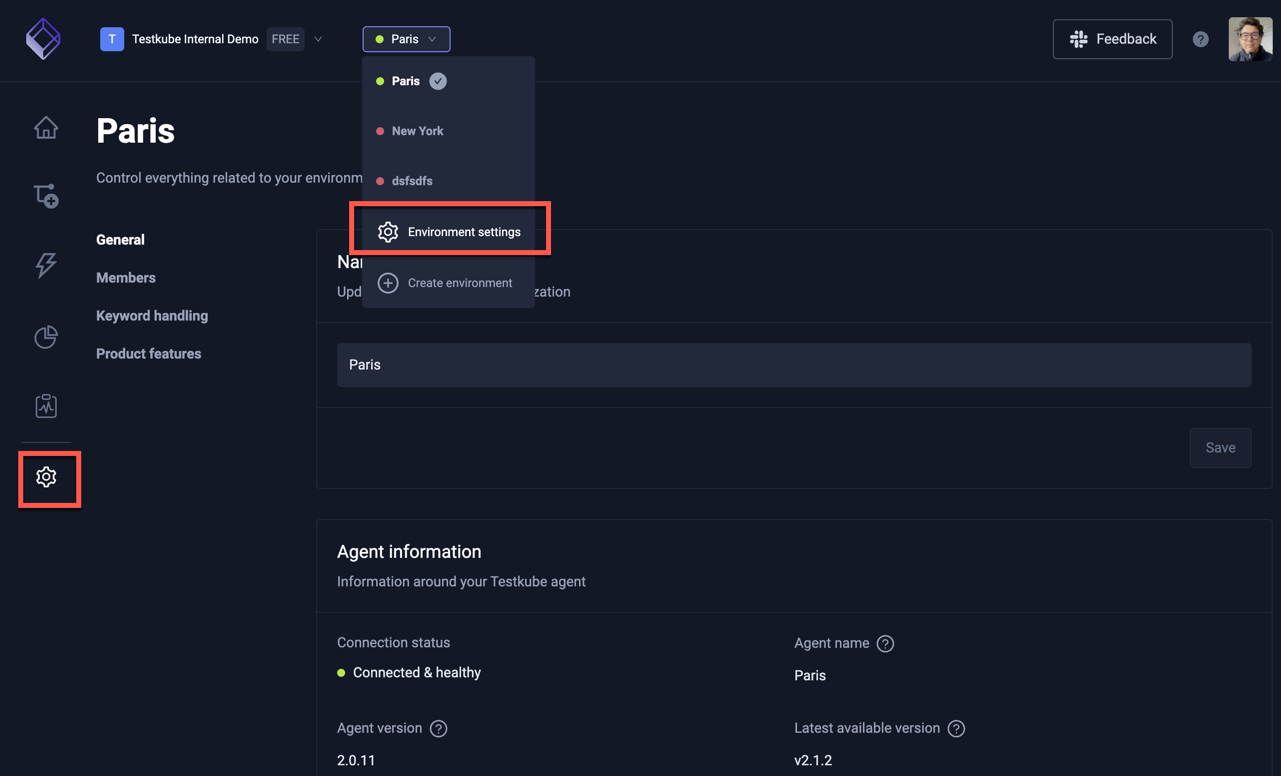
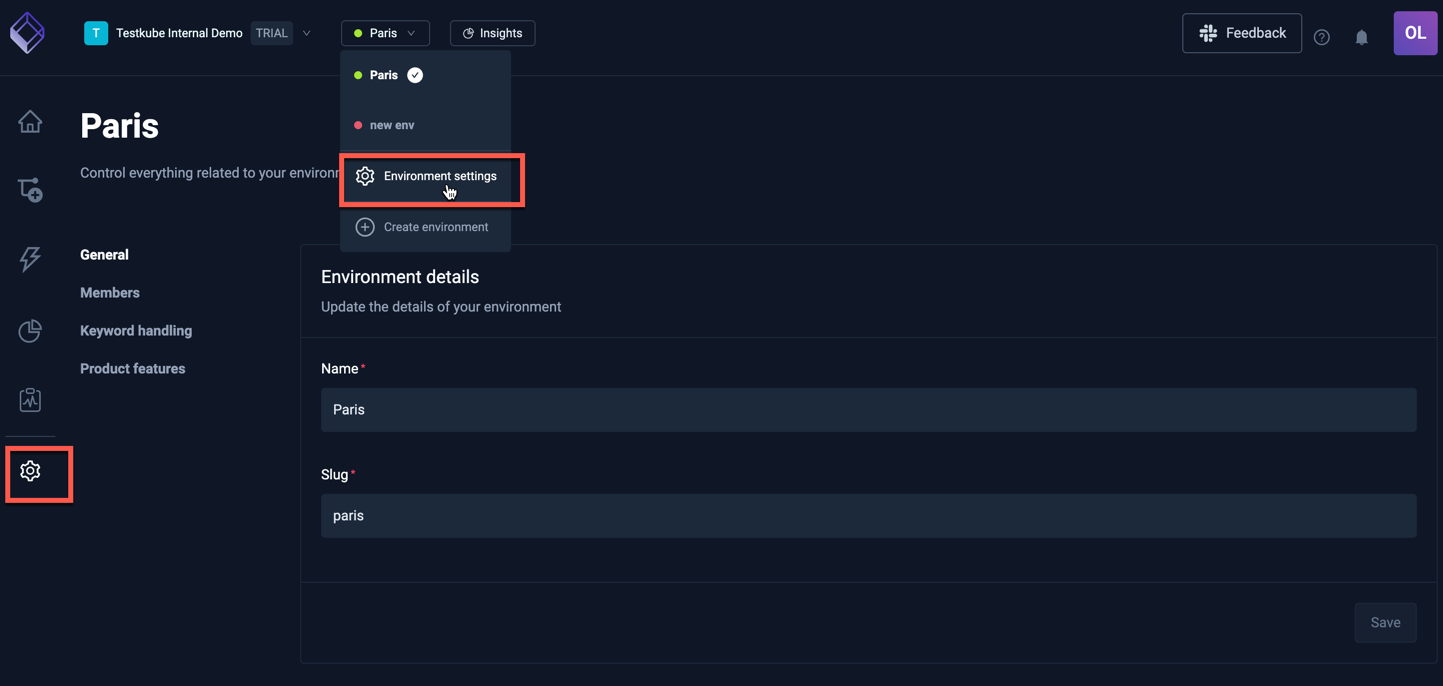
ongoing MAE updates..

diff --git a/docs/testkube-pro/articles/agent-management.md b/docs/testkube-pro/articles/agent-management.md
@@ -4,11 +4,8 @@ With the introduction of [Multi-Agent support](/articles/install/multi-agent), T
 two types of agents:
 
 - Lightweight **Runner Agents**, of which there can be as many as needed. 
-- A single Standalone Agent (as before), of which there needs to be exactly one in every Environment.
-
-:::note
-The Standalone Agent will over time be replaced with separate lightweight agents for different functionality.
-:::
+- A single and required **Standalone Agent** which provides core Environment functionality for Triggers, Webhooks, 
+  Prometheus metrics, etc.
 
 The Agent Management panel shows a graph of concurrent Runner Agent usage over time and below that a 
 table of currently registered Agents, with columns for their different attributes.
@@ -19,14 +16,35 @@ The Standalone Agent is always shown last in this table with the label "superage
 
 ## Adding a Runner Agent
 
-Use the "Connect New Runner Agent" button to add a new Runner Agent to your Environment. This will open the following
-dialog:
+Use the "Connect New Runner Agent" button on the top right to add a new Runner Agent to your Environment. 
 
-- connect screenshot -
+This will open the below dialog providing you with the necessary commands to install and connect a new Runner
+Agent to the current Testkube Environment.
 
-## Managing an existing Agent
+![Add Runner Agent Dialog](images/add-runner-agent-dialog.png)
+
+Once added, the Runner Agent will be available for running your Workflows as described at [Running a Worklfow](/articles/testkube-dashboard-workflow-details#running-a-workflow)  
+
+## Managing an existing Runner Agent
 
 Existing agents are currently managed via the Testkube CLI, use the popup menu to the right in the table 
-to see corresponding CLI commands:
+to see examples of applicable CLI commands:
 
-- commands screenshot -
+![Manage Runner Agent Dialog](images/manage-runner-agent-dialog.png)
+
+:::tip
+Check out [Multi-Agent CLI Overview](/articles/multi-agent-cli) for an overview of all Testkube CLI commands for
+working with Testkube Agents.
+:::
+
+## Managing the Standalone Agent
+
+The Standalone Agent shown last in the list has a different set of commands as it is always required. The dialog contains 
+the following information: 
+
+- The connection status and name of the agent.
+- Which Testkube version the Agent is running, and the latest available version (so you know if an upgrade is available).
+- CLI and Helm commands to install or update the Agent to the latest version.
+- The `testkube set context` CLI command to configure the Testkube CLI for this agent - [Read More](/testkube-pro/articles/managing-cli-context).
+
+![Manage Standalone Agent Dialog](images/manage-standalone-agent-dialog.png)

diff --git a/docs/testkube-pro/articles/environment-management.md b/docs/testkube-pro/articles/environment-management.md
@@ -78,17 +78,6 @@ Find the general settings for your environment on the **General** tab. You can a
 
 ![General Settings Dashboard](../../img/general-settings-dashboard-072024.png)
 
-### Agent Information
-
-The middle section of the General tab presents information about the agent connected to this Environment, showing you:
-
-- The connection status and name of the agent.
-- Which Testkube version the Agent is running, and the latest available version (so you know if an upgrade is available).
-- CLI and Helm commands to install or update the Agent to the latest version.
-- The `testkube set context` CLI command to configure the Testkube CLI for this agent - [Read More](/testkube-pro/articles/managing-cli-context).
-
-![Agent Information](../../img/agent-information.png)
-
 ### Environment Members
 
 You can assign environment-specific roles to [Teams](/articles/teams) or individual [Members](/testkube-pro/articles/organization-management#members) of your organization to control which

diff --git a/docs/articles/testkube-dashboard-workflow-details.md b/docs/articles/testkube-dashboard-workflow-details.md
@@ -9,8 +9,8 @@ The "**Run Now**" button in the top right has two modes of operation:
 - Clicking on the "Run Now" label will immediately schedule an execution of the workflow on a global runner.
 - Clicking on the down-arrow will open a list of available Runners where one can select on which Runner(s) to run.
 
-In the below screenshot the Workflow will run on the two selected runner when the "Run on 2 selected runners" button
-is pressed.
+In the below screenshot, the Workflow will run on the two selected Runners when the "Run on 2 selected runners" button
+is selected.
 
 ![Run Workflow Button](images/run-workflow-button.png)
 
